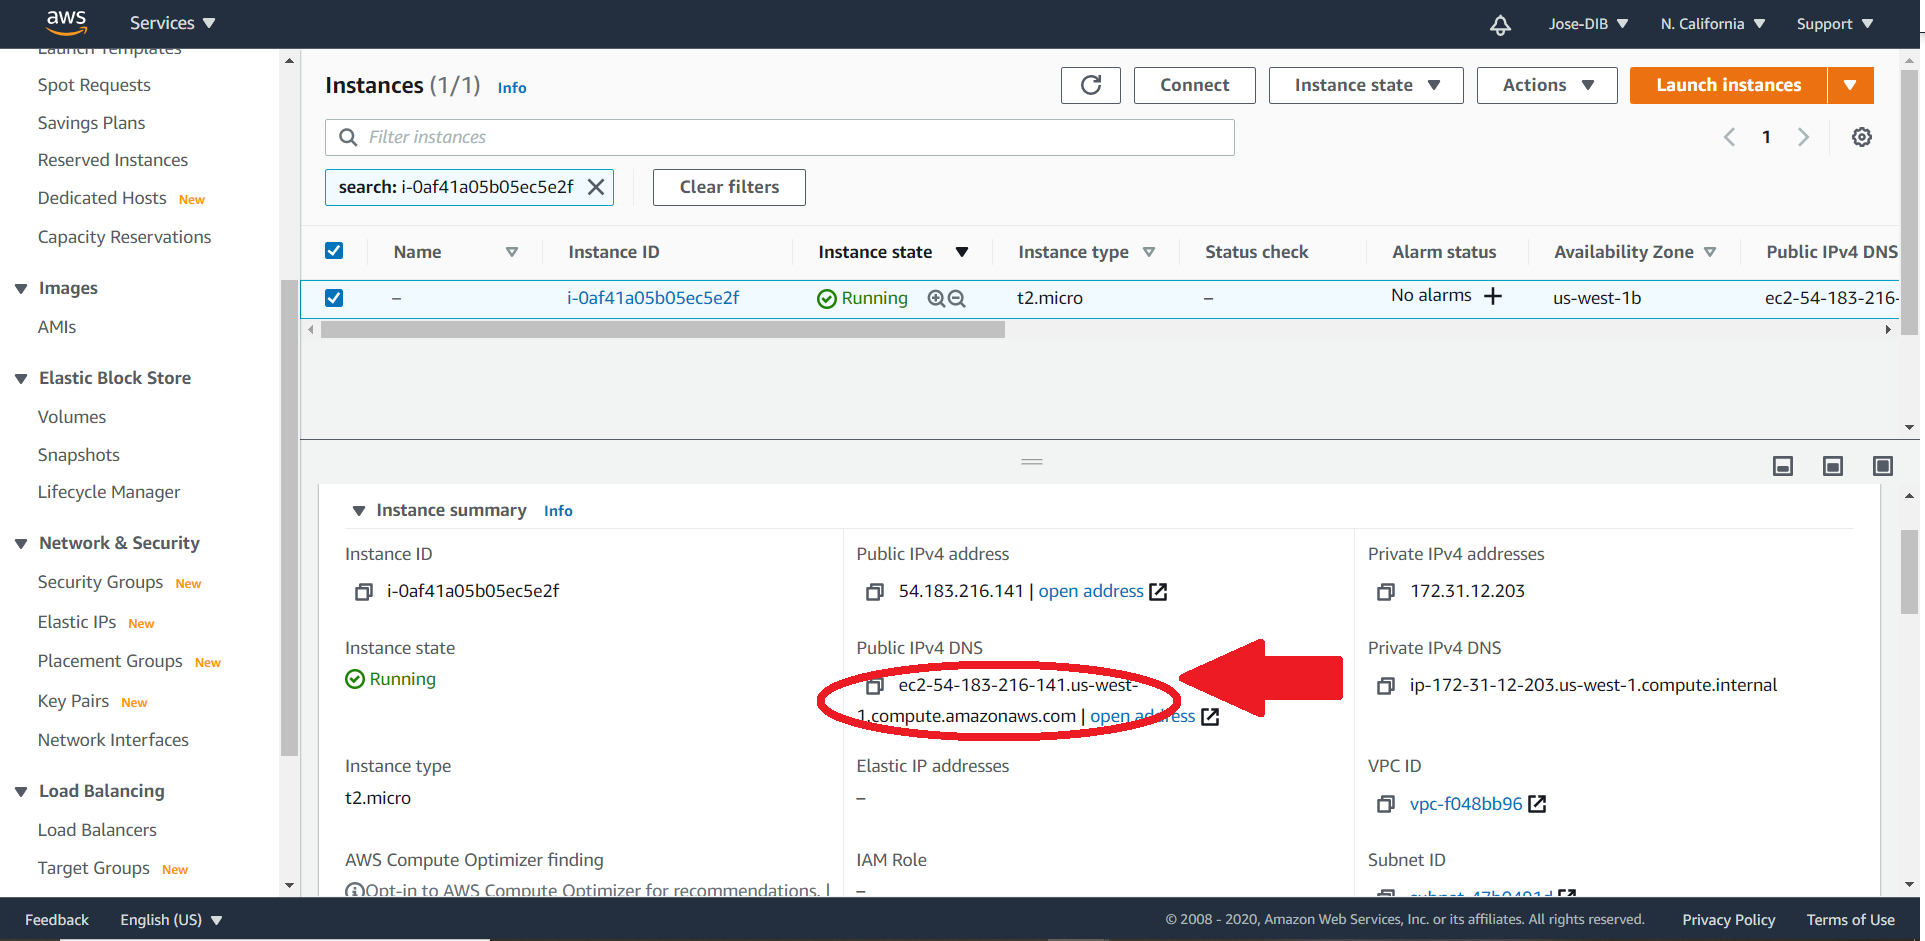
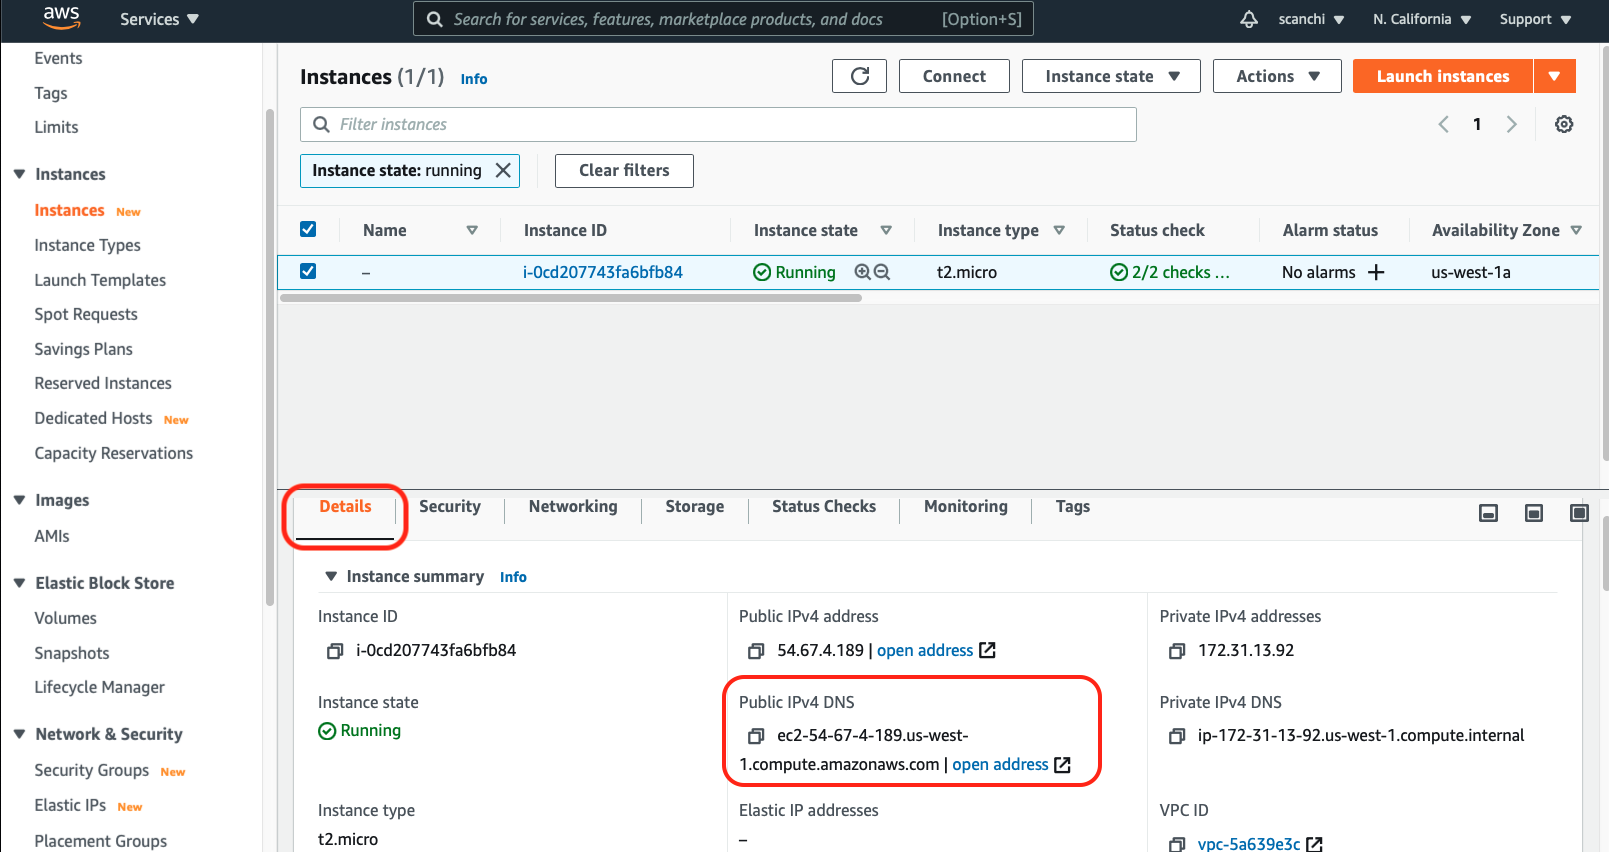
Updated setting up aws lesson with text, syn highlight and new images

Changed region(s): [[0.0, 0.0, 1.0, 1.0], [0.7147, 0.5798, 0.808, 0.6408], [0.6526, 0.5798, 0.6837, 0.6103]]

diff --git a/docs/Bioinformatics-Skills/Introduction_to_Amazon_Web_Services/introtoaws3.md b/docs/Bioinformatics-Skills/Introduction_to_Amazon_Web_Services/introtoaws3.md
@@ -1,4 +1,7 @@
-# Setting up an AWS instance
+---
+layout: page
+title: Setting up an AWS instance
+---
 
 To start, we will learn how to set-up Ubuntu 20.04 Pro LTS open source software operating system. Ubuntu 20.04 Pro LTS is one of the programs offered in the Amazon Free Tier as well as one of the most popular open source operating systems.
 
@@ -6,21 +9,20 @@ Follow along with these steps and/or watch our [walk-through tutorial](./introto
 
 ### Step 1: Log in to an AWS account
 
-Go to [Amazon Web Services](https://aws.amazon.com) in a web browser. Select the "My Account" menu option "AWS Management Console". Log in with your username & password.
+Go to [Amazon Web Services](https://aws.amazon.com), click on <span class="highlight_txt">My Account</span> and select  <span class="highlight_txt">AWS Management Console</span> from the drop down menu.
+</br>Alternatively, click on <span class="highlight_txt">Sign In to the Console</span>. Log in with your username & password as a **Root user**.
 
 ![AWS Management Console](./images-aws/aws_1.png "AWS my account button")
 
-!!! Note
+!!! info "Account Setup"
 
-          If you need to create an account, please follow the [AWS instructions for creating an account](https://aws.amazon.com/premiumsupport/knowledge-center/create-and-activate-aws-account/).
+          If you need to create an account, please follow the [AWS instructions for creating an account](https://aws.amazon.com/premiumsupport/knowledge-center/create-and-activate-aws-account/). You will need a credit card to set up the account. New accounts could take up to 24 hours to be activated.
 
-!!! Warning
-
-    If you are creating a new account, it could take up to 24 hours to be activated. You'll need a credit card to set up the account.
 
 ### Step 2: Choose virtual machine
+**Select region**
 
-For this tutorial, select the AWS region that is closest to your current geographic location. The AWS region of your remote machine is displayed on the top right of this page. Click on it and choose the location that best describes the region you are currently located.
+Select the AWS region of your remote machine that is closest to your current geographic location. It is displayed on the top right corner. Click on it and choose the location that best describes the region you are currently located. In this tutorial, we have selected **N.California**.
 
 ![AWS Dashboard](./images-aws/aws_2.png "AWS amazon machine selection")
 
@@ -28,59 +30,62 @@ For this tutorial, select the AWS region that is closest to your current geograp
 
     The default region is automatically displayed in the AWS Dashboard. The [choice of region](https://docs.aws.amazon.com/emr/latest/ManagementGuide/emr-plan-region.html) has implications on fees, speed, and performance.
 
-Click on "Services" (upper left):
+Click on <span class="highlight_txt">Services</span> (upper left corner):
 
 ![AWS Services](./images-aws/aws_3.png "AWS Services button")
 
-Click on "EC2":
+Click on <span class="highlight_txt">EC2</span>:
 
 ![EC2](./images-aws/aws_4.png "AWS EC2 button")
 
-!!! Note
+!!! Note "Amazon EC2"
 
-         Amazon Elastic Cloud Computing features virtual computing environments called instances. These instances can vary in configurations of CPU, memory, storage, networking capacity. For the purposes of future tutorials, we will launch Ubuntu 20.04 Pro LTS. LTS releases are the ‘enterprise grade’ releases of Ubuntu and are utilized the most.
+         Amazon Elastic Cloud Computing (Amazon EC2) features virtual computing environments called instances. These instances can vary in configurations of CPU, memory, storage, networking capacity. For the purposes of future tutorials, we will launch Ubuntu 20.04 Pro LTS. LTS releases are the ‘enterprise grade’ releases of Ubuntu and are utilized the most.
 
-Click on "Launch Instance":
+Click on <span class="highlight_txt">Launch Instance</span>:
 
 ![Launch Instance](./images-aws/aws_5.png "AWS launch button")
 
-Select "AWS Marketplace" on the left hand side tab:
-
-![AWS Marketplace](./images-aws/aws_6.png "AWS marketplace button")
 
 ### Step 3: Choose an Amazon Machine Image (AMI)
 
-An Amazon Machine Image is a special type of virtual appliance that is used to create a virtual machine within the Amazon Elastic Compute Cloud. It is a template for the root volume of an instance (operating system, application server, and applications).
+An Amazon Machine Image is a special type of virtual appliance that is used to create a virtual machine within the Amazon EC2. It is a template for the root volume of an instance (operating system, application server, and applications).
 
-Type `Ubuntu 20.04 Pro LTS` in the search bar. Click "Select":
+Select <span class="highlight_txt">AWS Marketplace</span> on the left hand side tab:
+
+![AWS Marketplace](./images-aws/aws_6.png "AWS marketplace button")
+
+Type `Ubuntu 20.04` in the search bar. Choose `Ubuntu 20.04 LTS - Focal` by clicking <span class="highlight_txt">Select</span>:
 
 ![AMI](./images-aws/aws_7.png "AWS Ubuntu AMI")
 
-Click "Continue":
+Click <span class="highlight_txt">Continue</span>
 
-![Ubuntu Pro](./images-aws/aws_9.PNG "Ubuntu Pro information")
+![Ubuntu Pro](./images-aws/aws_9.png "Ubuntu Pro information")
 
 ### Step 4: Choose an instance type
 
-Amazon EC2 provides a wide selection of instance types optimized to fit different use cases. Instances are virtual servers that can run applications. They have varying combinations of CPU, memory, storage, and networking capacity, and give you the flexibility to choose the appropriate mix of resources for your applications. Learn more about instance types and how they can meet your computing needs.
+Amazon EC2 provides a wide selection of instance types optimized to fit different use cases. Instances are virtual servers that can run applications. They have varying combinations of CPU, memory, storage, and networking capacity, and give you the flexibility to choose the appropriate mix of resources for your applications. [Learn more about instance types and how they can meet your computing needs](https://aws.amazon.com/ec2/instance-types/).
 
-Select the row with `t2.micro`, the free tier eligible option:
+Select the row with `t2.micro` which is free tier eligible:
 
 ![t2.micro](./images-aws/aws_8.png "t2 micro instance type")
 
-!!! Note
+!!! Note "Free Tier Eligible"
 
-    The Free Tier Eligible tag lets us know that this particular operating system is covered by the Free Tier program where you use (limited) services without being charged. Limits could be based on how much storage you have access to and/or how many hours of compute you can perform in a one month.
+    The Free tier eligible tag lets us know that this particular operating system is covered by the [Free Tier program](https://aws.amazon.com/free/?all-free-tier.sort-by=item.additionalFields.SortRank&all-free-tier.sort-order=asc) where you use (limited) services without being charged. Limits could be based on how much storage you have access to and/or how many hours of compute you can perform in a one month.
 
 ### Step 5: Optional configurations
 
-There are several optional set up configurations. You can either click "Review and Launch" now to start the instance we've configured thus far in the tutorial without these additional configurations or as necessary, click on the following tabs to continue configuring. Start the first option by clicking "Next: Configure Instance Details" on the AWS page.
+There are several optional set up configurations. You can proceed to launch the instance we have configured thus far in the tutorial by clicking on <span class="highlight_txt">Review and Launch</span>. Alternatively, click on the following tabs to continue configuring. Start the first option by clicking <span class="highlight_txt">Next: Configure Instance Details</span> on the AWS page.
 
-=== "Configure Instance Details"
+=== "Configure Instance"
 
     Configure the instance to suit your requirements. You can launch multiple instances from the same AMI, request Spot instances to take advantage of the lower pricing, assign an access management role to the instance, and more.
 
-    A Spot Instance is an unused EC2 instance that is available for less than the On-Demand price. Because Spot Instances enable you to request unused EC2 instances at steep discounts, you can lower your Amazon EC2 costs significantly.
+    !!! info "Spot Instance"
+
+    A [Spot Instance](https://aws.amazon.com/ec2/spot/?cards.sort-by=item.additionalFields.startDateTime&cards.sort-order=asc) is an unused EC2 instance that is available for less than the On-Demand price. Because Spot Instances enable you to request unused EC2 instances at steep discounts, you can lower your Amazon EC2 costs significantly.
 
 === "Add Storage"
 
@@ -96,13 +101,15 @@ There are several optional set up configurations. You can either click "Review a
 
 ### Step 6: Review and launch instance
 
-After configuration settings are complete, click "Review and Launch" and "Launch". If you are launching an AWS instance for the first time, you will need to generate a key pair.
+The last tab in setup is **Review** which summarizes all the selected configurations for the instance. Click <span class="highlight_txt">Launch</span> after review. If you are launching an AWS instance for the first time, you will need to generate a key pair.
 
 ![launch instance](./images-aws/aws_launch.png "launch the instance")
 
-Choose the "Create a new key pair" option from the drop down menu. Under key pair name, type "amazon" and click "save". The default location for saving files on a Mac is the "Downloads" folder -- that's where your key pair can be found. Next time you launch an instance, you can reuse the key pair you just generated.
+Choose the <span class="highlight_txt">Create a new key pair</span> option from the drop down menu. You can type any name under **Key pair name**. In this tutorial we are naming it `amazon.pem`. Click <span class="highlight_txt">Download Key Pair</span> to obtain the `.pem` file to your local machine. The default location for saving files on a Mac is the Downloads folder -- that's where your key pair can be found. Next time you launch an instance, you can reuse the key pair you just generated.
 
-If you have a previously generated key pair, you can reuse it to launch an instance. For this tutorial, we are calling the key pair "amazon.pem".
+If you have a previously generated key pair, you can reuse it to launch an instance using <span class="highlight_txt">Choose an existing key pair</span> option.
+
+Check the acknowledgement box, and click <span class="highlight_txt">Launch Instance</span>.
 
 ![pem key](./images-aws/aws_10.png "key pair set up")
 
@@ -110,19 +117,16 @@ If you have a previously generated key pair, you can reuse it to launch an insta
 
     For security purposes, the SSH (Secure Shell) protocol uses encryption to secure the connection between a client and a server. All user authentication, commands, output, and file transfers are encrypted to protect against attacks in the network. With SSH protocol (secure Shell) public key authentication improves security as it frees users from remembering complicated passwords.
 
-Then select your key pair, check the acknowledgement box, and click "Launch Instance". Now you should see:
+You will be directed to the **Launch Status** page where the green colored box on top indicates a successful launch! Click on this first hyperlink, which is the instance ID. Your hyperlink may be different.
 
 ![SSH](./images-aws/aws_11.png "Instance ID link")
 
-Click on this first hyperlink, in the image above, "i-038c58bfbe9612c57". Your hyperlink may be different.
+The instance console page shows you a list of all your active instances. Users may launch as many instances as they wish. Just remember that every instance costs money if you don't qualify for the Free Tier. Obtain the **Public DNS** address with the format `ec2-XX-XX-X-XXX.us-yyyy-y.compute-1.amazon.aws.com` located under the <span class="highlight_txt">Details</span> tab.
 
-![Remote Host](./images-aws/aws_12.PNG "AWS instance running page")
+![Remote Host](./images-aws/aws_12.png "AWS instance running page")
 
-This page shows you a list of all your active instances. Users may launch as many instances as they wish. Just remember that every instance costs money if you don't qualify for the Free Tier. On this page, there is a "Public DNS" address, with the format `ec2-XXX-YYY-AAA.compute-1.amazon.aws.com`. You'll need this address to connect to your AWS computer.
+You have now successfully launched your AWS instance! You will need the Public DNS address from this amazon webpage to access your AWS instance, so do not close the page yet.
 
+If you happen to close the webpage on accident, [click on this link](https://us-west-1.console.aws.amazon.com/ec2/v2/home?region=us-west-1#Instances:sort=instanceId).
 
-You have now successfully launched your AWS instance! You will need the Public DNS address from this amazon webpage to access your AWS computer, so do not close the page yet.
-
-If you happen to close the webpage on accident, [click on this link](https://us-west-1.console.aws.amazon.com/ec2/v2/home?region=us-west-1#Instances:sort=instanceId)
-
-Continue on to the next lesson to learn how to connect to your AWS computer!
+Continue on to the next lesson to learn how to connect to your AWS instance!
